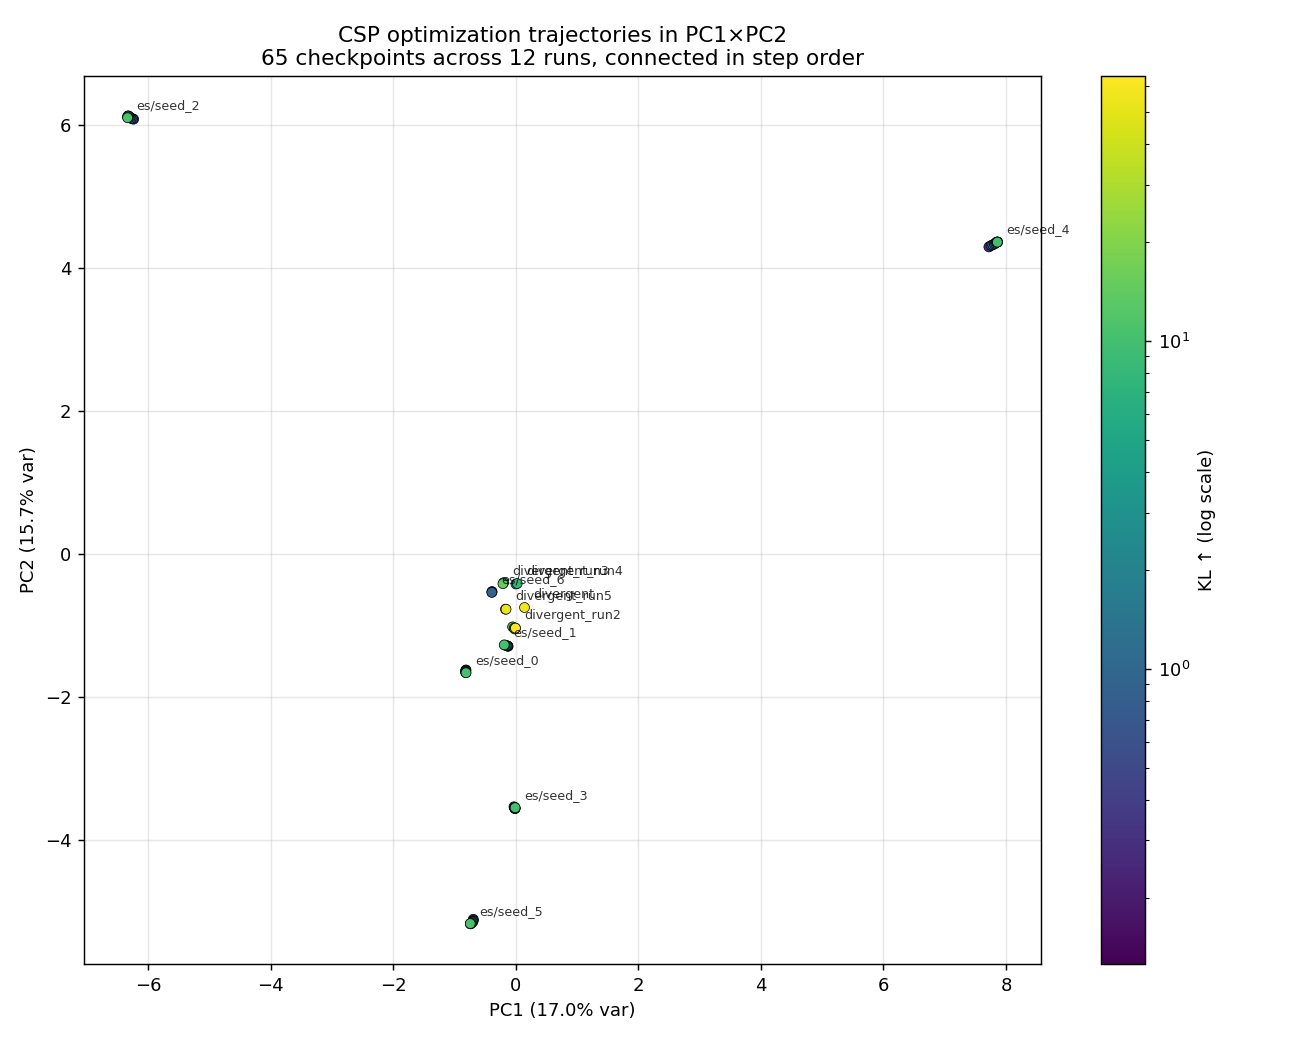
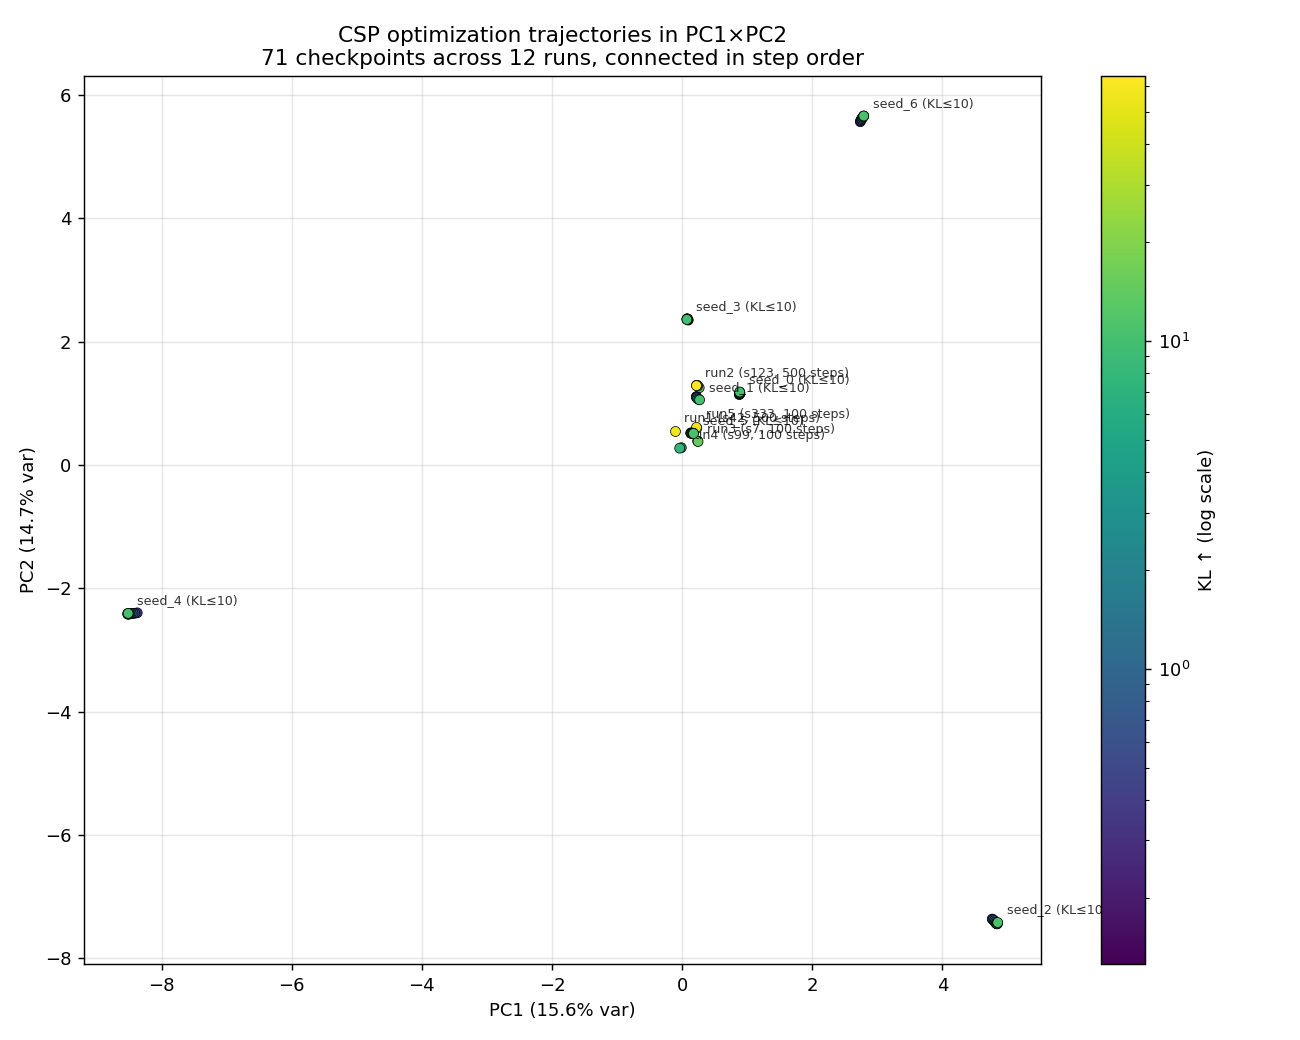
Use friendlier labels in PCA plot (run1/run2/seed_N instead of 'divergent')

diff --git a/analyze_pca_trajectory.py b/analyze_pca_trajectory.py
@@ -32,6 +32,24 @@ def parse_step(ckpt_name, kl_curve_len):
     return kl_curve_len  # final ckpt
 
 
+RUN_LABELS = {
+    "divergent":      "run1 (s42, 500 steps)",
+    "divergent_run2": "run2 (s123, 500 steps)",
+    "divergent_run3": "run3 (s7, 100 steps)",
+    "divergent_run4": "run4 (s99, 100 steps)",
+    "divergent_run5": "run5 (s333, 100 steps)",
+}
+
+
+def label_for(group):
+    """Pretty label for a group/dir name."""
+    if group in RUN_LABELS:
+        return RUN_LABELS[group]
+    if group.startswith("early_stop/seed_"):
+        return f"seed_{group.split('_')[-1]} (KL≤10)"
+    return group
+
+
 def collect_checkpoints(results_dir):
     """Walk results/, return list of dicts:
        {group, label, step, kl, embedding (1D np)}.
@@ -110,7 +128,7 @@ def main():
                    s=30, edgecolor="black", linewidth=0.4, zorder=3)
         # Label group at the LAST point
         last = pts[-1]
-        ax.annotate(group.replace("early_stop/", "es/"),
+        ax.annotate(label_for(group),
                     xy=last, xytext=(5, 5), textcoords="offset points",
                     fontsize=7, alpha=0.8)
 
